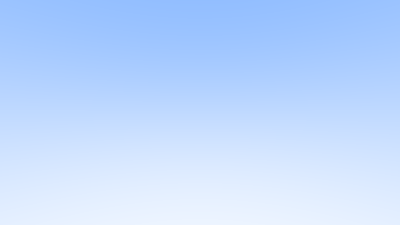
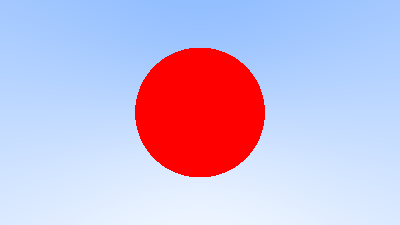
render sphere

Changed region(s): [[0.33, 0.1867, 0.66, 0.8089]]

diff --git a/Raytracing In One Weekend/main.cpp b/Raytracing In One Weekend/main.cpp
@@ -13,12 +13,28 @@ const double aspect_ratio = 16.0 / 9.0;
 const int width = 400;
 int height = int(width / aspect_ratio);
 
-std::vector<uint8_t> framebuffer(width* height * 4);
+std::vector<uint8_t> framebuffer(width* height * 3);
 
 using Color = vec3;
 
+bool HitSphere(const point3& center, double radius, const Ray& r)
+{
+	vec3 oc = center - r.origin();
+	double a = dot(r.direction(), r.direction());
+	double b = -2.0 * dot(r.direction(), oc);
+	double c = dot(oc, oc) - radius * radius;
+	double discriminant = b * b - 4 * a * c;
+
+	return (discriminant >= 0);
+}
+
 Color RayColor(const Ray& r)
 {
+	if (HitSphere(point3(0, 0, -1), 0.5, r))
+	{
+		return Color(1.0, 0.0, 0.0); 
+	}
+
 	vec3 unit_direction = unit_vector(r.direction());
 	double a = 0.5 * (unit_direction.y() + 1.0);
 	return (1.0 - a) * Color(1.0, 1.0, 1.0) + a * Color(0.5, 0.7, 1.0);
@@ -50,7 +66,7 @@ int main()
 
     double focal_length = 1.0;
     double viewport_height = 2.0;
-    double viewport_width = viewport_height * double(width / height);
+    double viewport_width = viewport_height * aspect_ratio;
 	vec3 camera_center = point3(0, 0, 0);
 
 	vec3 viewport_u = vec3(viewport_width, 0, 0);
